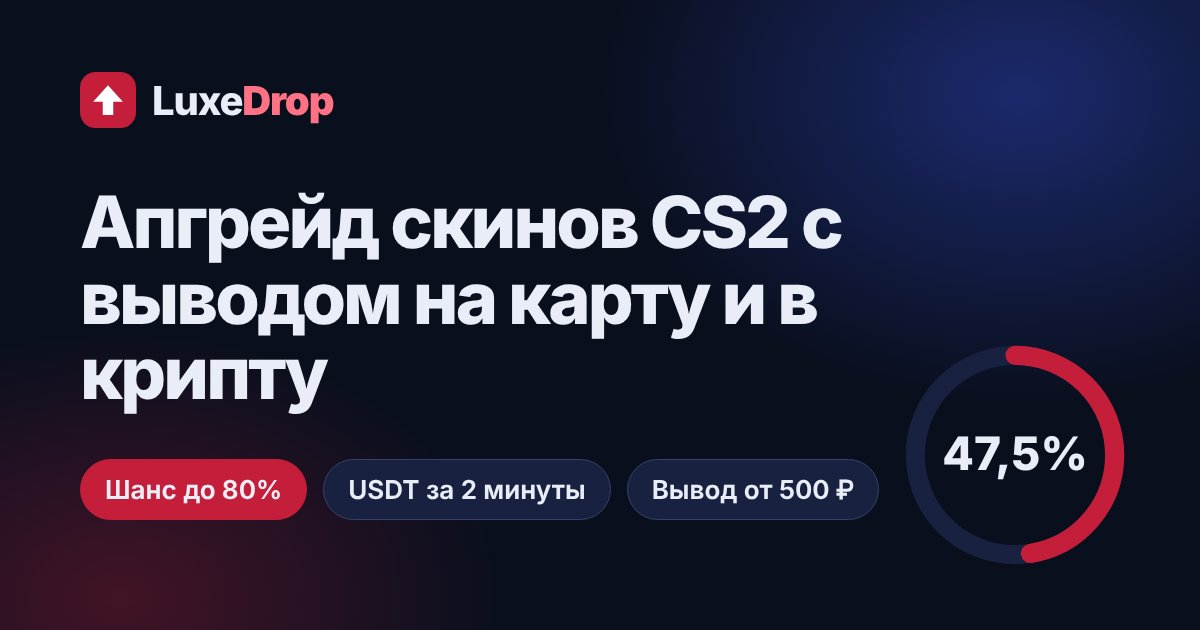
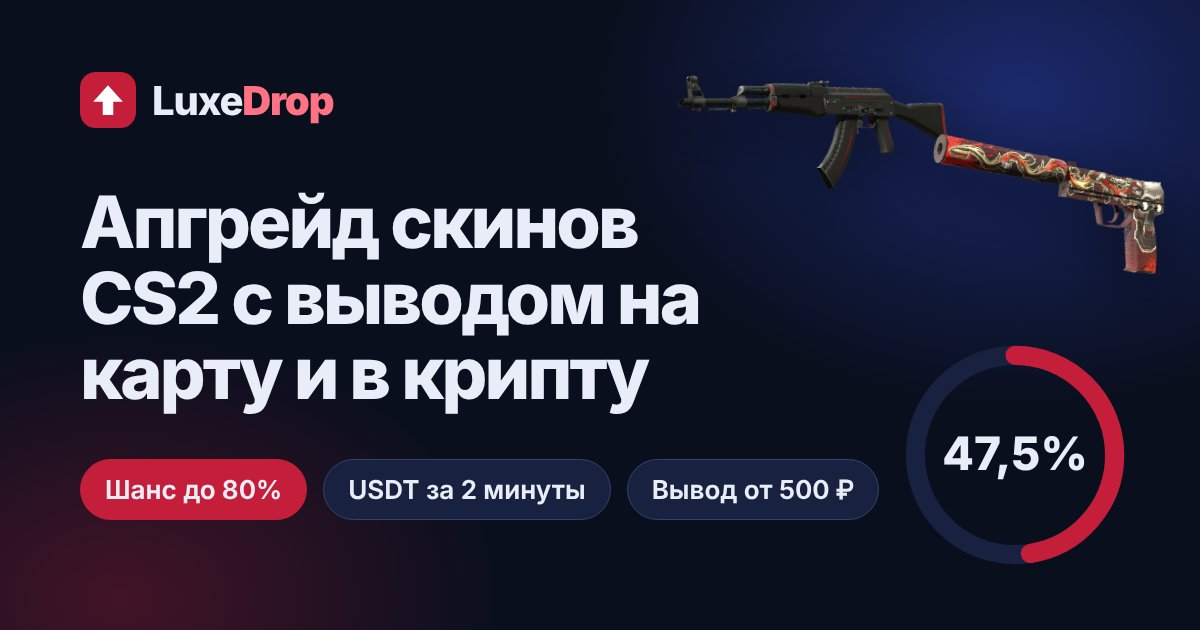
Реальные иконки скинов вместо силуэтов
- hero главной: AK-47 | Redline и USP-S | Kill Confirmed — официальные
  картинки из Steam, WebP 480×360 у нас на сервере (14 и 20 КБ);
- демо-каталог (db/seed-items.json): у всех 40 скинов ссылки на иконки
  Steam CDN и цвет редкости, локально без синхронизации тоже видны картинки;
- OG-картинка для соцсетей теперь с этими скинами.

Claude-Session: https://claude.ai/code/session_01N8NKGnMAaLabHeUtAnDYLZ

diff --git a/cs2-site/public/index.html b/cs2-site/public/index.html
@@ -132,21 +132,19 @@
           </ul>
         </div>
 
-        <!-- Демонстрация апгрейда. Силуэты можно заменить картинками скинов:
-             ЗАМЕНИТЬ: WebP 512×384, скин на прозрачном фоне (AK-47 | Redline и USP-S | Kill Confirmed),
-             например из Steam CDN: https://community.akamai.steamstatic.com/economy/image/<icon_url>/512fx384f -->
+        <!-- Демонстрация апгрейда. Иконки скинов — официальные картинки из Steam (assets/img/skins, WebP 480×360) -->
         <div class="hero-visual" aria-label="Пример апгрейда: AK-47 Redline за 1 250 рублей в USP-S Kill Confirmed за 2 600 рублей, шанс 45,7%" role="img">
           <div class="demo-card">
             <div class="demo-skins">
               <div class="skin" data-rarity="classified">
-                <div class="skin-img"><svg class="silhouette" viewBox="0 0 120 44" fill="currentColor" aria-hidden="true"><path d="M4 18h34l3-4h34l2-3h9v3h28v5h-28l-3 4H72l-7 15h-9l5-13H44l-4 11H30l3-11H18l-9 5H4z"/></svg></div>
+                <div class="skin-img"><img src="/assets/img/skins/ak47-redline.webp" alt="" width="480" height="360" decoding="async"></div>
                 <span class="skin-name">AK-47 | Redline</span>
                 <span class="skin-meta">FT · Засекреченное</span>
                 <span class="skin-price">1 250 ₽</span>
               </div>
               <span class="demo-arrow" aria-hidden="true"><svg class="icon" aria-hidden="true"><use href="/assets/icons.svg#i-arrow-right"/></svg></span>
               <div class="skin" data-rarity="covert">
-                <div class="skin-img"><svg class="silhouette" viewBox="0 0 120 44" fill="currentColor" aria-hidden="true"><path d="M30 14h50l4-4h8v4h20v6H92l-2 4H70l-4 14h-9l3-14H44l-3 6h-9l2-6H20l-8 4H6l2-10z"/></svg></div>
+                <div class="skin-img"><img src="/assets/img/skins/usps-kill-confirmed.webp" alt="" width="480" height="360" decoding="async"></div>
                 <span class="skin-name">USP-S | Kill Confirmed</span>
                 <span class="skin-meta">FT · Тайное</span>
                 <span class="skin-price">2 600 ₽</span>

diff --git a/cs2-site/lib/catalog.js b/cs2-site/lib/catalog.js
@@ -149,7 +149,7 @@ export async function seedDemoItems() {
   const { count } = await db.one('select count(*)::int as count from items');
   if (count > 0) return 0;
   const seed = JSON.parse(fs.readFileSync(new URL('../db/seed-items.json', import.meta.url), 'utf8'));
-  const rows = seed.map((s) => ({ ...splitHashName(s.hashName), hashName: s.hashName, weapon: s.weapon, rarity: s.rarity, rarityColor: null, image: null, stattrak: s.hashName.includes('StatTrak'), price: s.price, quantity: 10 }));
+  const rows = seed.map((s) => ({ ...splitHashName(s.hashName), hashName: s.hashName, weapon: s.weapon, rarity: s.rarity, rarityColor: s.rarityColor ?? null, image: s.image ?? null, stattrak: s.hashName.includes('StatTrak'), price: s.price, quantity: 10 }));
   await upsertItems(db, rows);
   return rows.length;
 }
